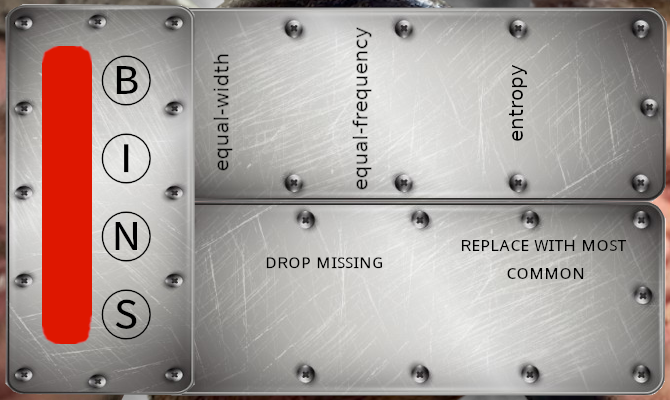
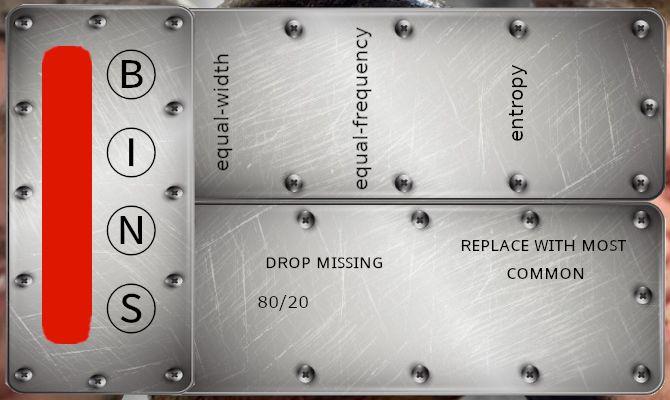
added 80/20 button

diff --git a/GUI/Gui.py b/GUI/Gui.py
@@ -152,6 +152,10 @@ def getResources():
                                       'location':(385,245) },
             "replace_nans"         : {'image':ImageTk.PhotoImage(Image.open("res/prepro/replacenans.png")),
                                       'location':(385,245) },
+            "8020_on"              : {'image':ImageTk.PhotoImage(Image.open("res/prepro/8020u.png")),
+                                      'location':(225,287) },
+            "8020_off"             : {'image':ImageTk.PhotoImage(Image.open("res/prepro/8020d.png")),
+                                      'location':(225,287) },
             }, 
         "classif":{
             "background"           :{'image':ImageTk.PhotoImage(Image.open("res/classif/classifpanel.png")),
@@ -241,7 +245,8 @@ arg_dict = { 'test':None,
              'bin_type':None,
              'missing_values': 'remove_nans',  # removing nans by default
              'choosen_function':None,
-             'choosen_function_name':None
+             'choosen_function_name':None,
+             '8020':None
     }
 
 #                           _       _ _      _   
@@ -289,6 +294,7 @@ button_actions = {
             'equal_width'    : lambda  : toggle_bin_type('equal_width'),
             'equal_frequency': lambda  : toggle_bin_type('equal_frequency'),
             'entropy'        : lambda  : toggle_bin_type('entropy'),
+            '8020'           : lambda  : toggle_8020(),
         },
         "classif":{
             'our_naive_bayes': lambda  : toggle_choosen_function(functions['our_naive_bayes'],'our_naive_bayes'),
@@ -374,6 +380,22 @@ def save_to_file(arg_dict,output_components):
         output_components['satus_box'].config(text = 'Saved')
     else:
         output_components['satus_box'].config(text = 'Nothing to save')
+
+def pass_kwargs(**kwargs):
+    return kwargs
+
+def split_8020(**kwargs):
+    df = kwargs['train']
+    train = df.sample(frac=0.8,random_state=200) #random state is a seed value
+    test = df.drop(train.index)
+    return {**kwargs,**{'train':train, 'test': test }}
+
+def toggle_8020():
+    if(arg_dict['8020'] == pass_kwargs):
+        arg_dict['8020'] = split_8020
+    else:
+        arg_dict['8020'] = pass_kwargs
+
 
 def create_button(perent, location, image ,function ,enter_color="#2b2d42" ,leave_color="gray", bg_color="gray"):
     def on_enter(e):
@@ -528,6 +550,15 @@ def create_prepro_panel(parent, resources):
                          resources['prepro']['replace_nans']['image'],
                          resources['prepro']['remove_nans']['location'],
                          button_actions['prepro']['missing_values'],
+                         lambda: None)
+
+    # 80 / 20 button
+    arg_dict['8020'] = pass_kwargs
+    create_lever_button(prepro_panel,
+                         resources['prepro']['8020_off']['image'],
+                         resources['prepro']['8020_on']['image'],
+                         resources['prepro']['8020_off']['location'],
+                         button_actions['prepro']['8020'],
                          lambda: None)
 
     conected_lever_buttons = []
@@ -725,7 +756,8 @@ def create_run_panel(parent, resources):
     def F_D_L_S(): # Fault Detection Location System
         if(not isinstance(arg_dict['train'], pd.DataFrame)):
             setStatus('Load train')
-        elif(not isinstance(arg_dict['test'], pd.DataFrame)):
+        elif(not isinstance(arg_dict['test'], pd.DataFrame)
+            and arg_dict['8020'] == pass_kwargs):
             setStatus('Load test')
         elif(arg_dict['structure'] == None ):
             setStatus('Load structure')
@@ -745,7 +777,7 @@ def create_run_panel(parent, resources):
     def update_output(**kwargs):
         setStatus('Working...')
         function = kwargs['choosen_function']
-        result = function(**kwargs)
+        result = function(**kwargs['8020'](**kwargs))
         setScore(result['score'])
         output_components['TP_box'].config(text = result['TP'])
         output_components['TN_box'].config(text = result['TN'])
